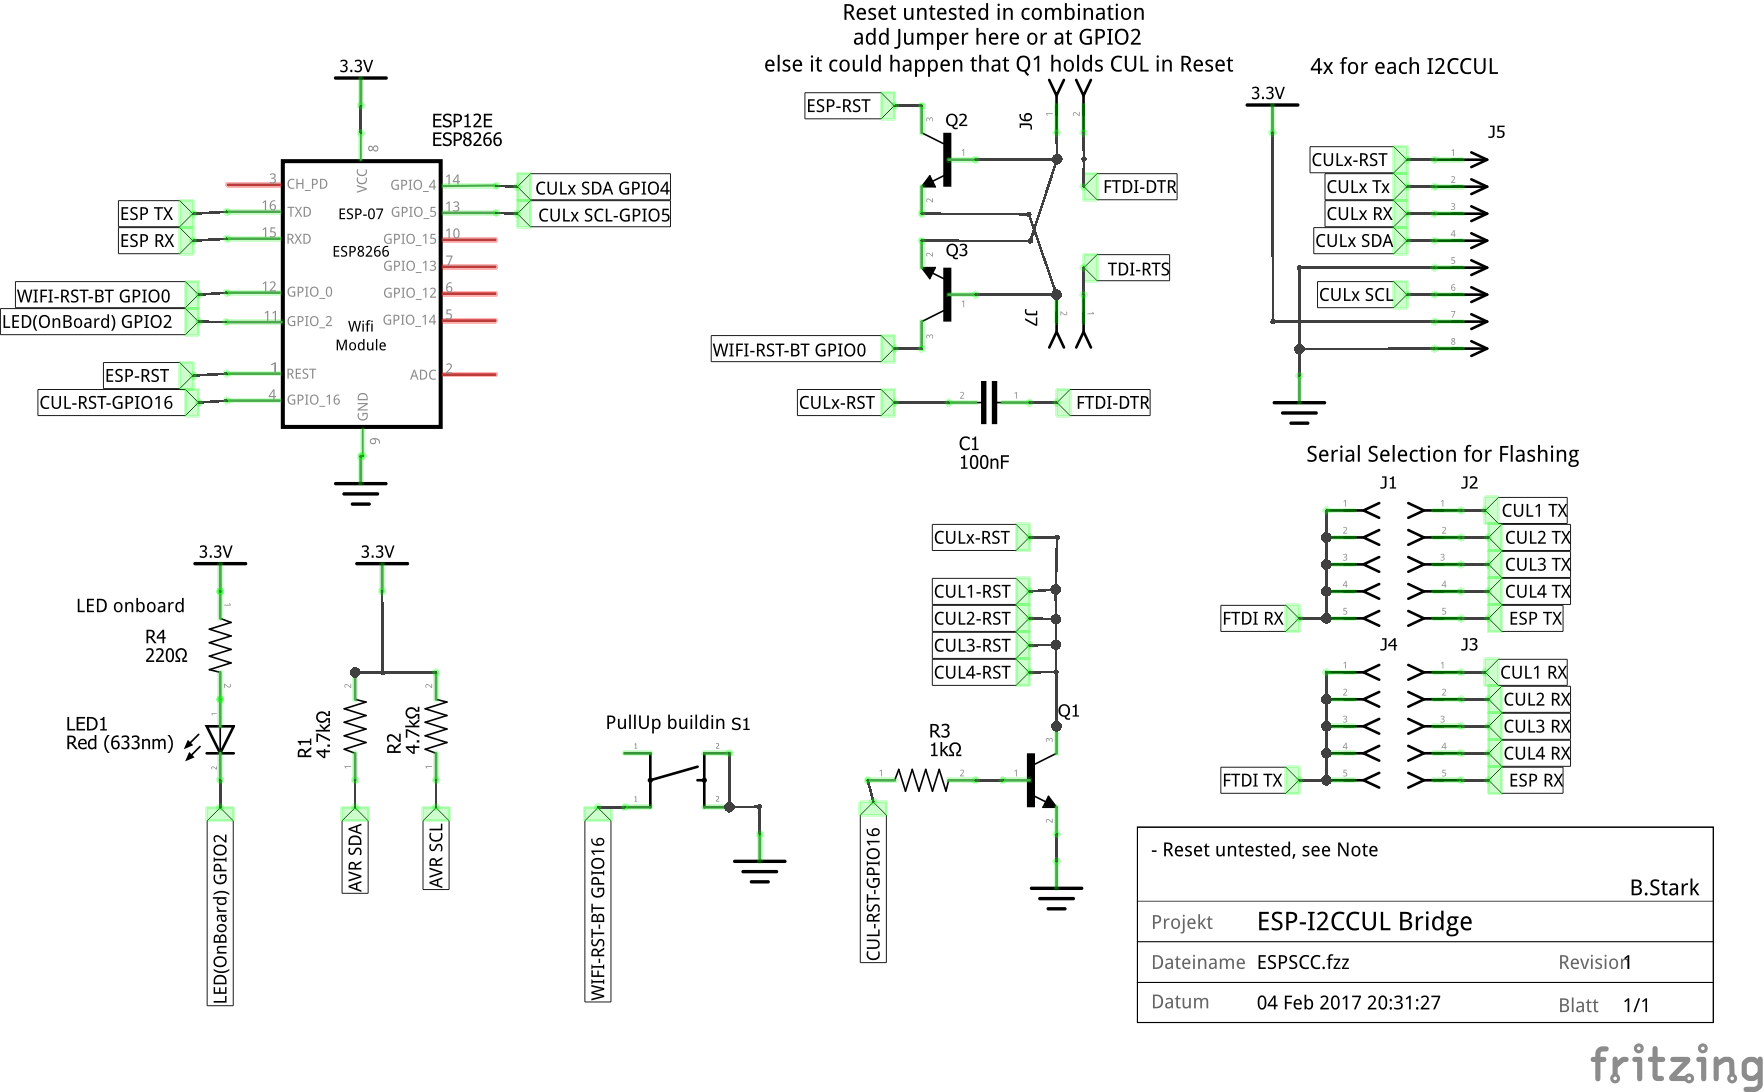
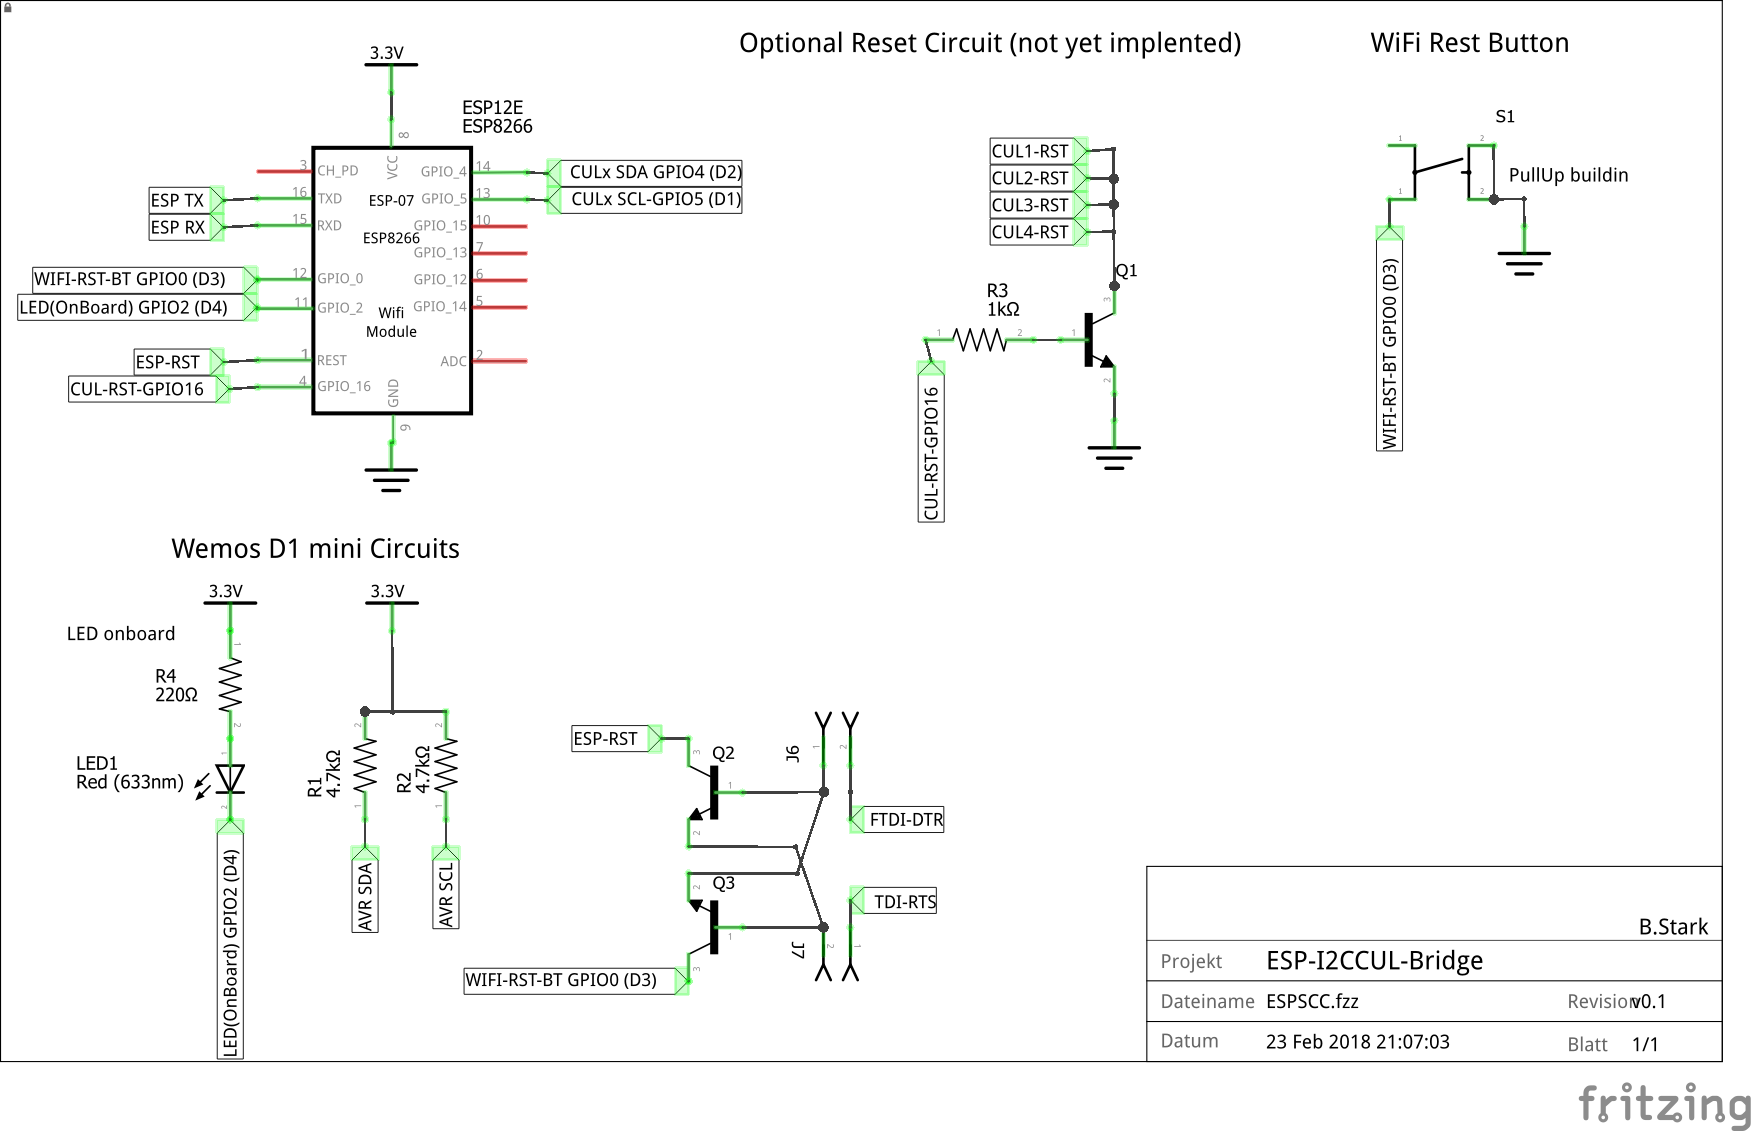
V0.1 Release
- Fix für I2CCUL - TWI offline beim Senden
- Wifi Reset Button fix - Wifi Reset sollte bei neustart nun nicht mehr
passieren
- Code Cleanups
- read.md angepasst
- Schaltplan angepasst

diff --git a/README.md b/README.md
@@ -1,12 +1,13 @@
 # ESP-I2CCUL-Bridge
+Adapter um mehrere CULs über I2C an einem ESP im Wifi bereitzustellen.
 
-Proof-of-Concept to connect many CUL devices over Wifi and Ínterface them like a SCC device, writen in Arduino C.
-Needs the I2CCUL firmware with an unique Address (see a-culfw fork)
+Connect many CUL devices over Wifi and Ínterface them like a SCC device, writen in Arduino C.
+Needs the I2CCUL firmware with an unique Address (see heliflieger/a-culfw )
 
 ##I2CCUL Device definition
 ```
-#define CULCOUNT       3
-const char CULADDR[CULCOUNT] = {0x7e, 0x7d, 0x7c};
+#define CULCOUNT       4
+const char CULADDR[CULCOUNT] = {0x70, 0x71, 0x7c2, 0x73;
 ```
 
 ##Wifi Credentials
@@ -18,6 +19,11 @@ const char* WifiPassword  = "****";
 ##Hardware Breadboard
 ![Breadboard](https://raw.githubusercontent.com/Diggen85/ESP-I2CCUL-Bridge/master/Breadboard.jpg)
 
+## ![FHEM](http://www.fhem.de) Definition
+define CUL_ESP CUL X.X.X.X:23 0000
+define CUL_ESP2 STACKABLE_CC CUL_ESP
+define CUL_ESP3 STACKABLE_CC CUL_ESP2
+define CUL_ESP4 STACKABLE_CC CUL_ESP3
 
 # License
 ```
